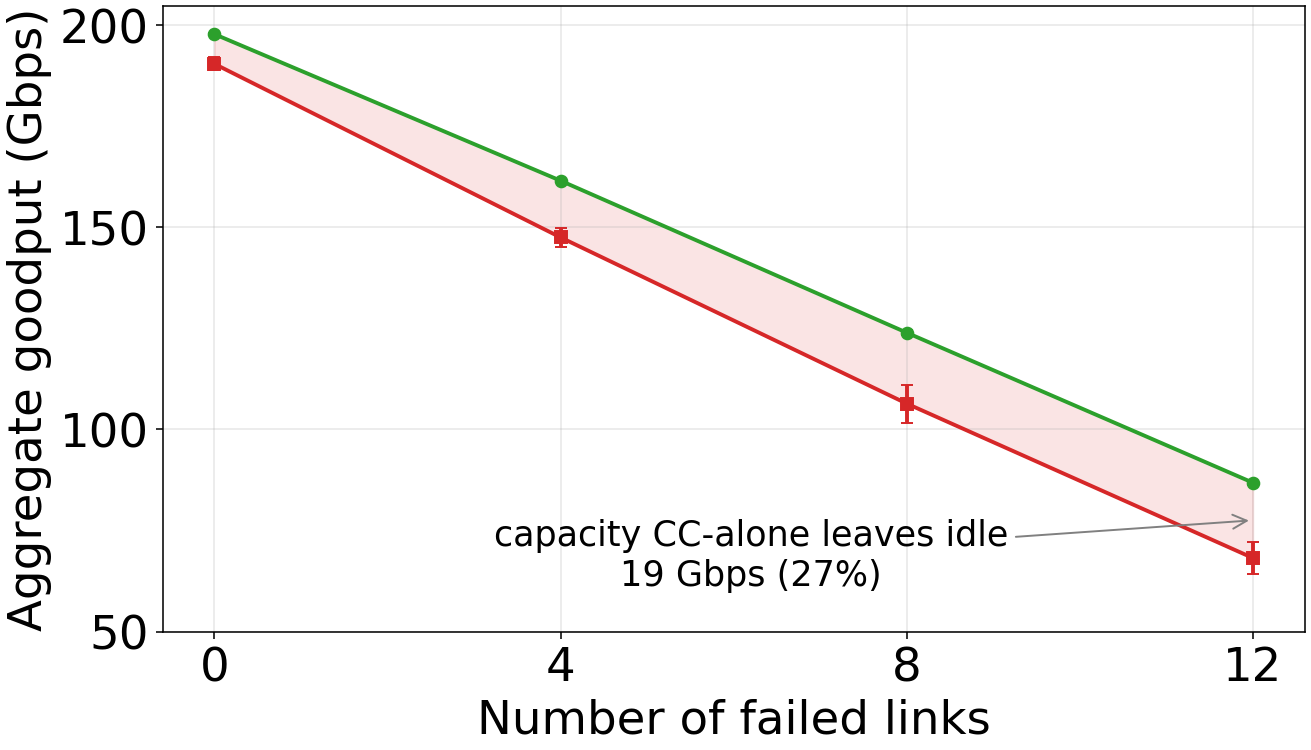
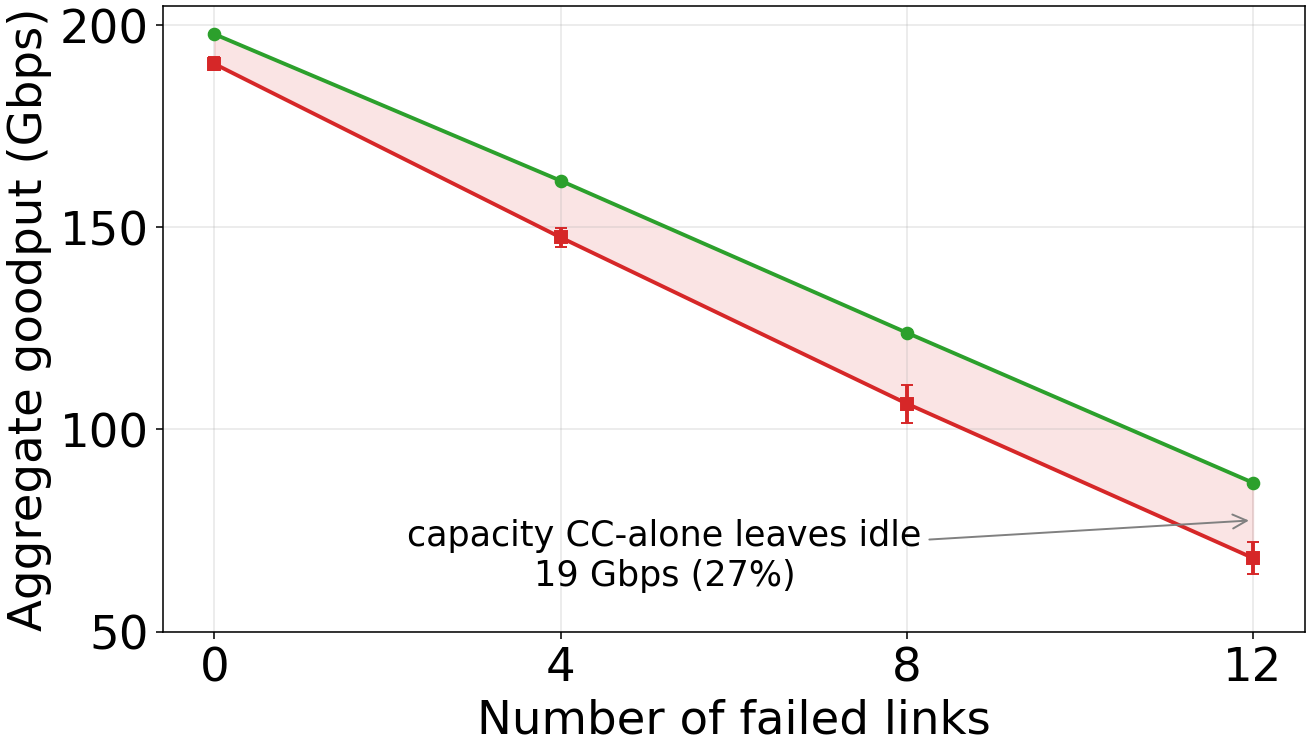
figG/figH: fix recurring y-label clip by setting figure.figsize via rcParams
The inline figsize=(10,6) on plt.subplots() kept getting stripped, reverting to the small
default size where the 24pt y-label clips. Move the size to rcParams (figure.figsize) so it
applies even when the subplots() call is edited. y-labels now render in full.

Changed region(s): [[0.3051, 0.6747, 0.8543, 0.7973], [0.8543, 0.6747, 0.9153, 0.7053]]

diff --git a/htsim/sim/datacenter/mvp_runs3/make_cc_figs.py b/htsim/sim/datacenter/mvp_runs3/make_cc_figs.py
@@ -69,18 +69,20 @@ def main():
     REPS_LBL = "REPS  (CC + adaptive spraying)"
     OBL_LBL = "OBLIVIOUS  (CC alone, no adaptive spraying)"
     GREEN, RED = "tab:green", "tab:red"
-    plt.rcParams.update({"font.size": 24})   # paper styling: axes/ticks/labels 24pt (legend & callouts set to 18 below)
+    # paper styling: 24pt text + a figure big enough that the 24pt y-label never clips.
+    # Set figsize via rcParams (not inline on plt.subplots) so it survives edits to that call.
+    plt.rcParams.update({"font.size": 24, "figure.figsize": (10, 6)})
 
     # ---- figG: goodput / underutilization ----
     gm_r, gs_r = across_seeds(goodput_gbps, "reps")
     gm_o, gs_o = across_seeds(goodput_gbps, "obl")
-    fig, ax = plt.subplots(figsize=(10, 6))
+    fig, ax = plt.subplots()
     ax.errorbar(FAILED, gm_r, yerr=gs_r, marker='o', capsize=3, lw=2, label=REPS_LBL, color=GREEN)
     ax.errorbar(FAILED, gm_o, yerr=gs_o, marker='s', capsize=3, lw=2, label=OBL_LBL, color=RED)
     ax.fill_between(FAILED, gm_o, gm_r, color=RED, alpha=0.12)
     gap = gm_r[-1] - gm_o[-1]
     ax.annotate(f"capacity CC-alone leaves idle\n{gap:.0f} Gbps ({100*gap/gm_o[-1]:.0f}%)",
-                xy=(12, (gm_r[-1] + gm_o[-1]) / 2), xytext=(6.2, (gm_r[-1] + gm_o[-1]) / 2 - 16),
+                xy=(12, (gm_r[-1] + gm_o[-1]) / 2), xytext=(5.2, (gm_r[-1] + gm_o[-1]) / 2 - 16),
                 fontsize=18, ha='center', arrowprops=dict(arrowstyle='->', color='gray'))
     ax.set_xlabel("Number of failed links")
     ax.set_ylabel("Aggregate goodput (Gbps)")
@@ -91,16 +93,16 @@ def main():
     # ---- figH: retransmission / congestion storm ----
     rm_r, rs_r = across_seeds(retx_pct, "reps")
     rm_o, rs_o = across_seeds(retx_pct, "obl")
-    fig, ax = plt.subplots(figsize=(10, 6))
+    fig, ax = plt.subplots()
     ax.errorbar(FAILED, rm_r, yerr=rs_r, marker='o', capsize=3, lw=2, label=REPS_LBL, color=GREEN)
     ax.errorbar(FAILED, rm_o, yerr=rs_o, marker='s', capsize=3, lw=2, label=OBL_LBL, color=RED)
     ax.fill_between(FAILED, rm_r, rm_o, color=RED, alpha=0.12)
     dr = rm_o[-1] - rm_r[-1]
     ax.annotate(f"extra trim/retransmit storm\nunder CC-alone  (+{dr:.0f} pts)",
-                xy=(11.7, (rm_r[-1] + rm_o[-1]) / 2), xytext=(8.6, 7.5),
+                xy=(11.7, (rm_r[-1] + rm_o[-1]) / 2), xytext=(7.6, 2.5),
                 fontsize=18, ha='center', arrowprops=dict(arrowstyle='->', color='gray'))
     ax.set_xlabel("Number of failed links")
-    ax.set_ylabel(r"Retransmitted packets ($\%$)")
+    ax.set_ylabel(r"Retransmitted packets (%)")
     # legend drawn in its own file (figGH_legend), not in the panel
     ax.set_xticks(FAILED); ax.set_ylim(bottom=0); ax.grid(alpha=0.3)
     plt.tight_layout(); plt.savefig(os.path.join(HERE, "figH_cc_alone_congestion.png"), dpi=140, bbox_inches="tight", pad_inches=0.05); plt.savefig(os.path.join(HERE, "figH_cc_alone_congestion.pdf"), bbox_inches="tight", pad_inches=0.05); plt.close()
@@ -111,7 +113,7 @@ def main():
           Line2D([], [], color=RED,   marker='s', lw=2, label=OBL_LBL)]
     with plt.rc_context({"font.size": 18}):
         figL = plt.figure(figsize=(13, 0.8))
-        figL.legend(handles=_h, loc="center", ncol=2, frameon=True)
+        figL.legend(handles=_h, loc="center", ncol=2, frameon=False)
         figL.savefig(os.path.join(HERE, "figGH_legend.png"), dpi=140, bbox_inches="tight", pad_inches=0.05)
         figL.savefig(os.path.join(HERE, "figGH_legend.pdf"), bbox_inches="tight", pad_inches=0.05)
         plt.close(figL)
